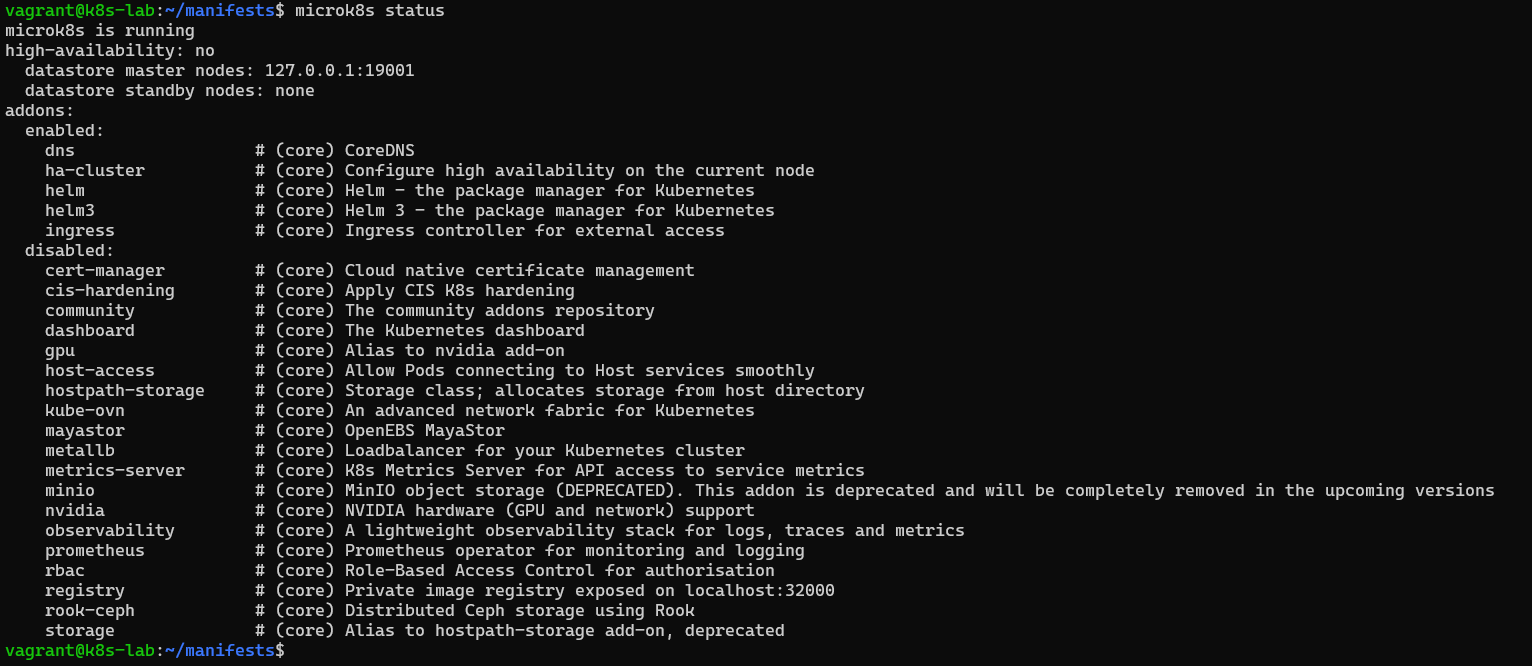
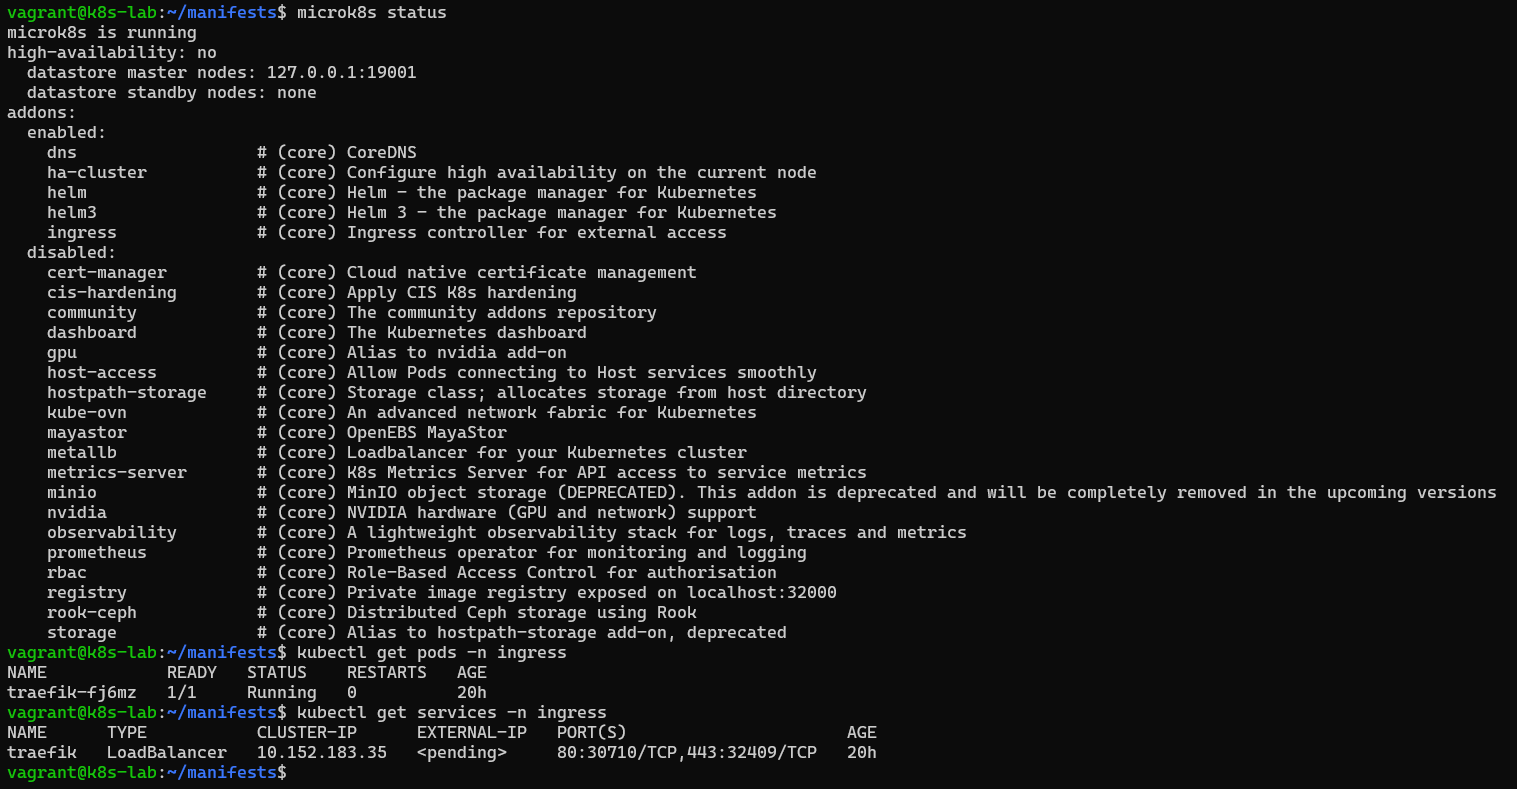
Продолжение редактирования Readme

Changed region(s): [[0.0, 0.0, 0.9914, 0.991]]

diff --git a/README.md b/README.md
@@ -133,6 +133,8 @@ kubectl describe service multi-container-service
 
 ![img](img/image6.png)
 
+Оба Service типа `ClusterIP` успешно созданы и связаны с соответствующими Pod по селекторам `app=frontend` и `app=backend`.
+
 Service типа `ClusterIP` успешно создан. По селектору `app=multi-container` он обнаружил все три Pod приложения.
 
 Настроено перенаправление:
@@ -396,6 +398,8 @@ microk8s enable ingress
 
 ```
 microk8s status
+kubectl get pods -n ingress
+kubectl get services -n ingress
 ```
 
 ![img](img/image18.png)
